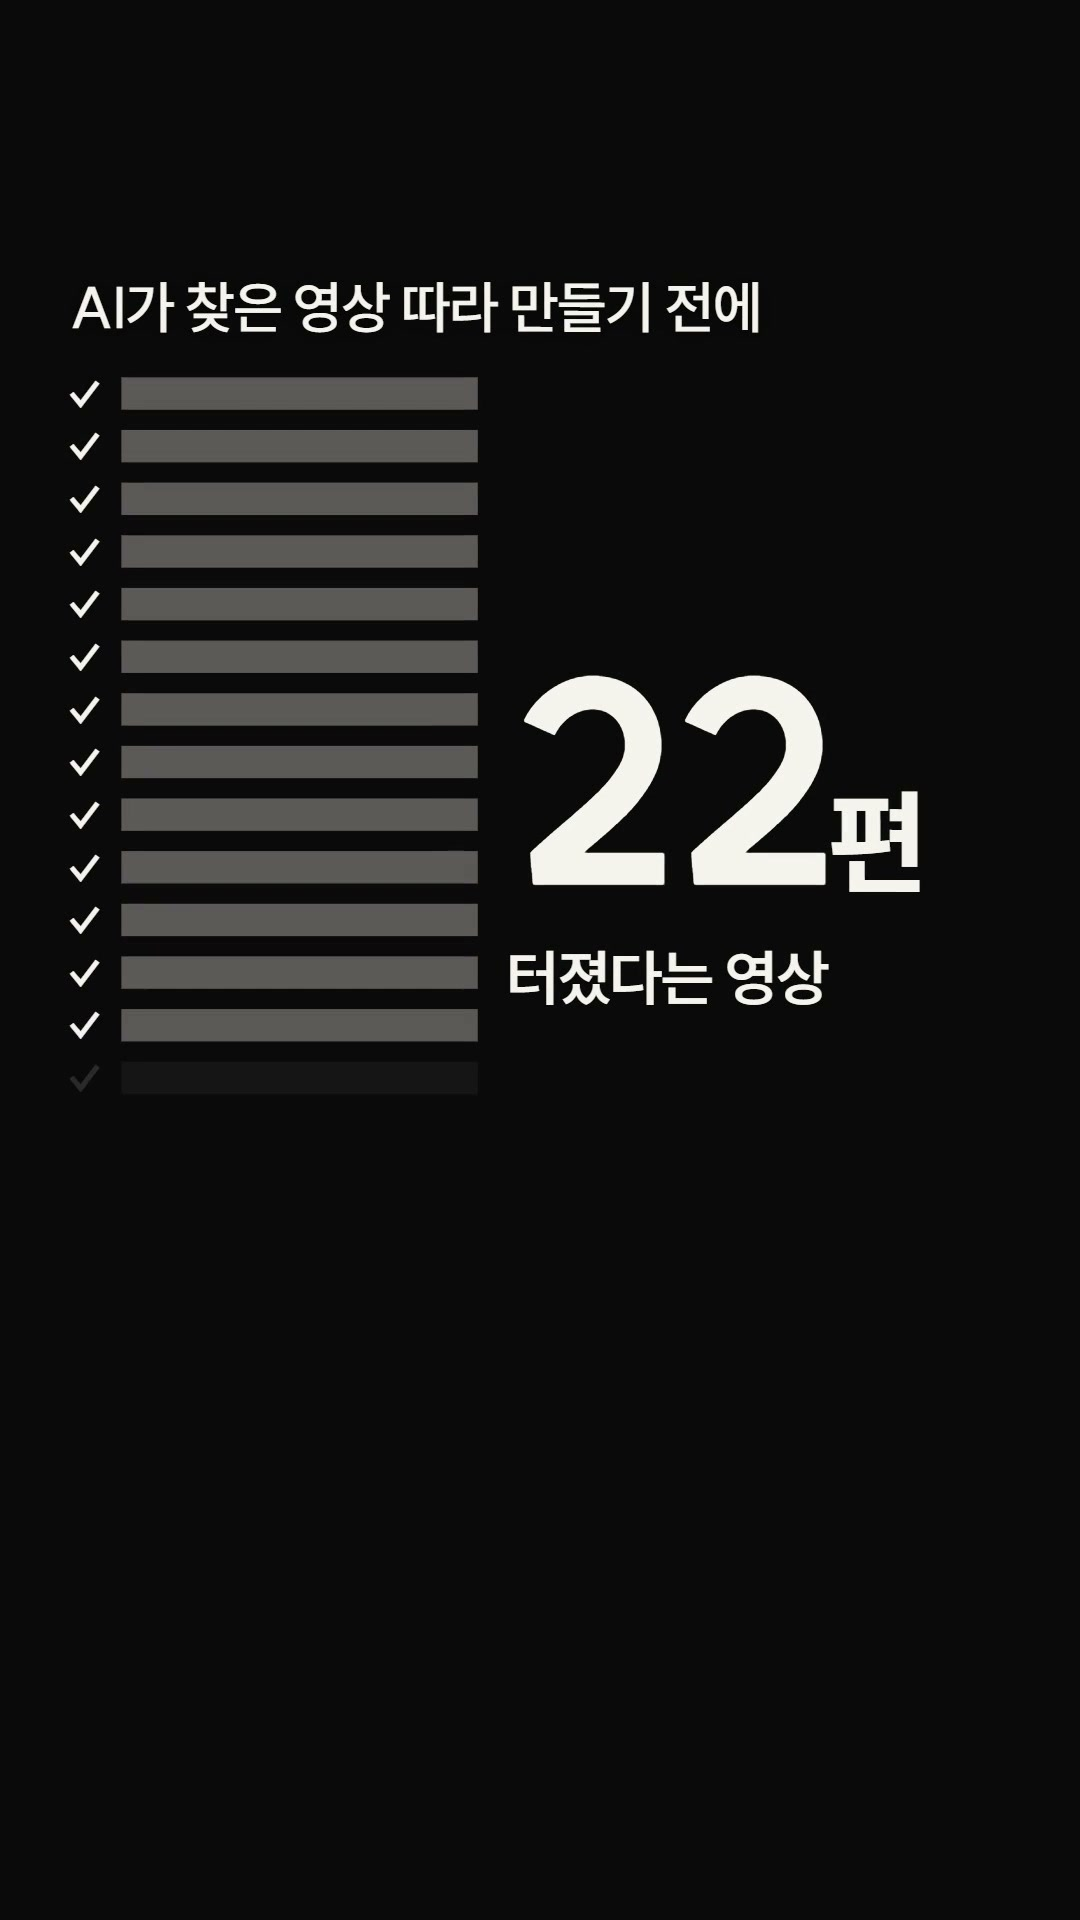
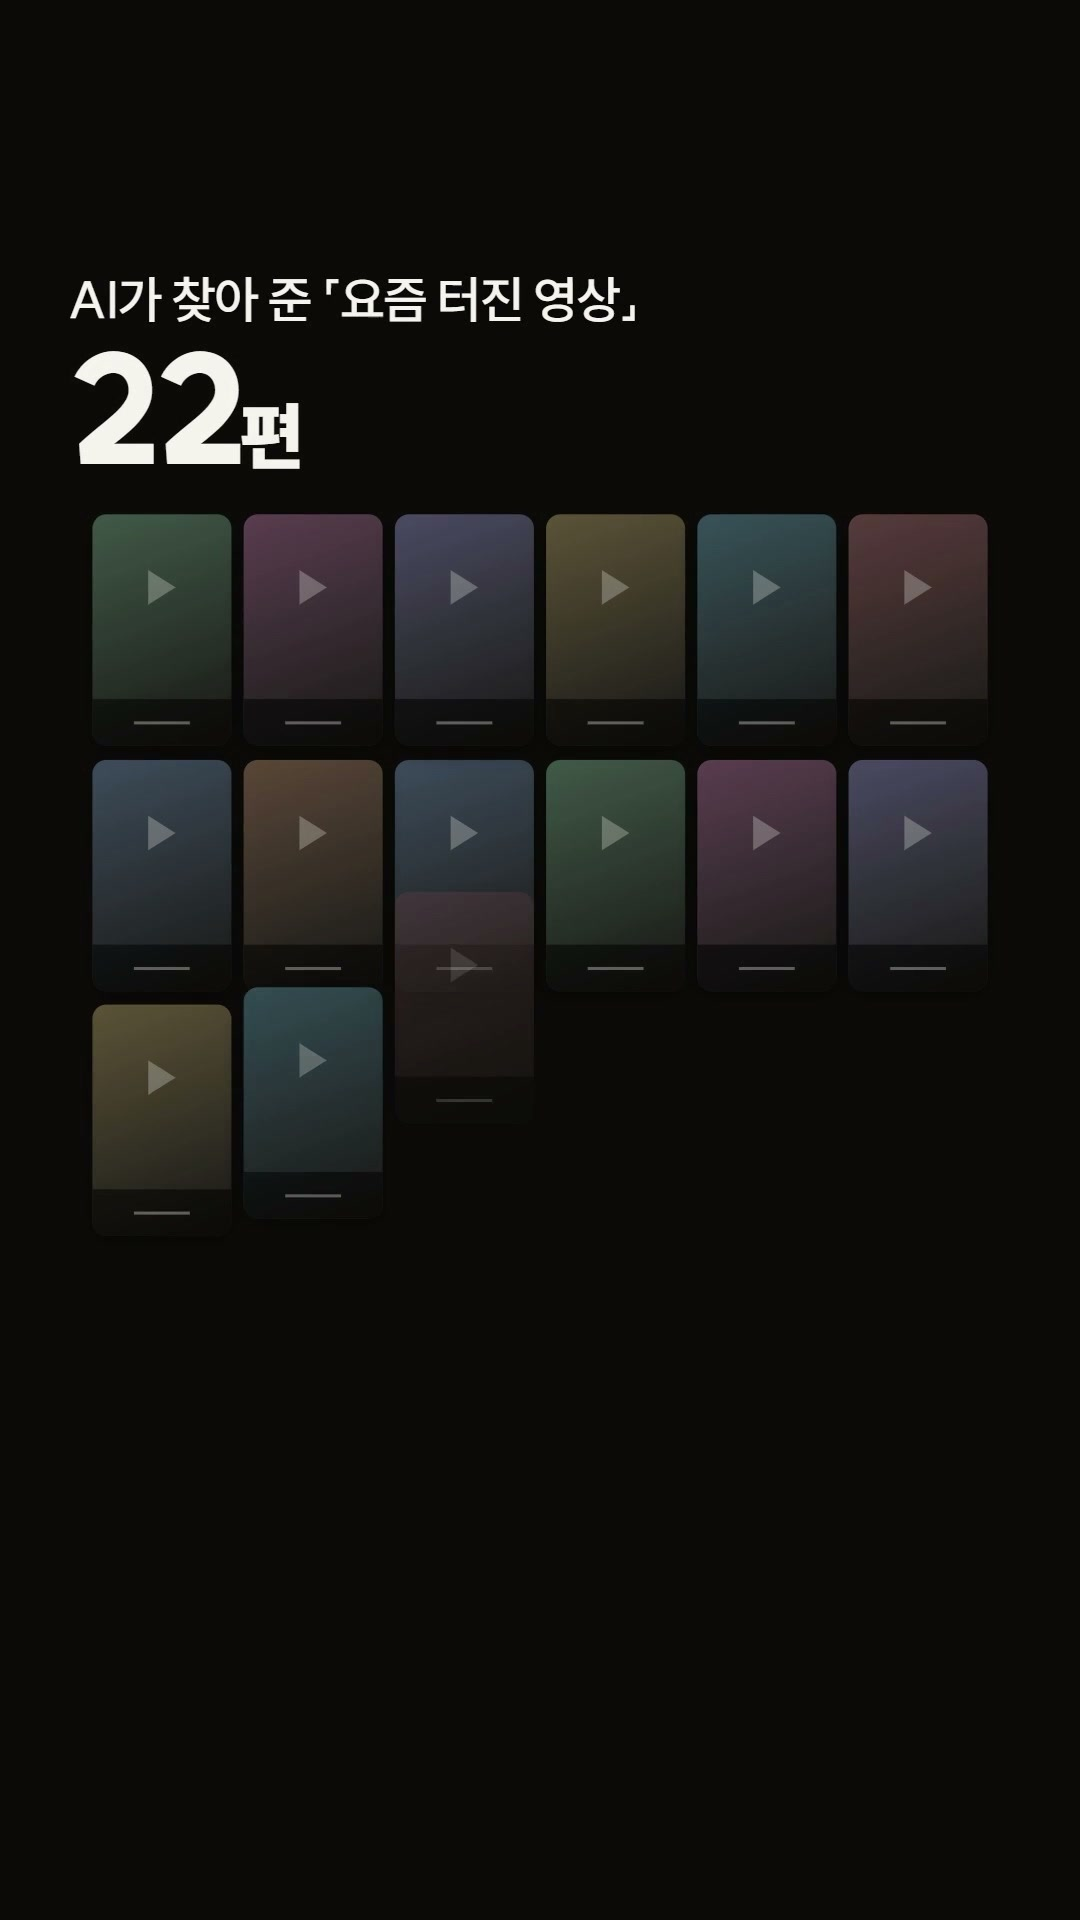
wip(yuhobuilds Y33 · 11-10 새벽 다시 짬 v17): 컷 전수 검수 「미흡」대로 작은 표 · 문단을 버리고 「영상 카드 22장」 한 그림으로 끝까지 — 쏟아짐 → 체크 → 까닭 줄 → 「?」 → 뒤집혀 20장이 꺼지고 2장만, 실제 보고서는 제목 · 그 문장만 0.8초씩 크게. 이해 시험 다시(넷 다 한 문장 같음 · 저장 넷) 같이 짚은 셋 고침, 원본 나란히 다섯 다 맞음. 아르곤 맹검 줄 기다림 — 작업실등록 없음

Changed region(s): [[0.0611, 0.125, 0.9167, 0.625]]

diff --git a/docs/마케팅/yuhobuilds_터진영상19회_20261109/시험/v16/질문.md b/docs/마케팅/yuhobuilds_터진영상19회_20261109/시험/v16/질문.md
@@ -1,0 +1,17 @@
+너는 인스타 릴스를 넘기다가 이 영상을 처음 본 사람이다. AI 도구를 일에 자주 쓰지만 개발자는 아닌 30대 한국인 직장인·1인 사업가이고, 이 계정도 만든 사람도 이 영상의 배경도 모른다. 아래 파일만 Read 도구로 열어 보고 답해라. 다른 파일·폴더·인터넷은 보지 마라.
+
+- 장면 묶음(그림 7장, 이 순서로 다 연다): C:\Users\q1212\Documents\SYNK-appsscript\.claude\worktrees\sched-synk-daily-yuhobuilds-1110-0258\docs\마케팅\yuhobuilds_터진영상19회_20261109\시험\v16\정지컷_01.jpg · C:\Users\q1212\Documents\SYNK-appsscript\.claude\worktrees\sched-synk-daily-yuhobuilds-1110-0258\docs\마케팅\yuhobuilds_터진영상19회_20261109\시험\v16\정지컷_02.jpg · C:\Users\q1212\Documents\SYNK-appsscript\.claude\worktrees\sched-synk-daily-yuhobuilds-1110-0258\docs\마케팅\yuhobuilds_터진영상19회_20261109\시험\v16\정지컷_03.jpg · C:\Users\q1212\Documents\SYNK-appsscript\.claude\worktrees\sched-synk-daily-yuhobuilds-1110-0258\docs\마케팅\yuhobuilds_터진영상19회_20261109\시험\v16\정지컷_04.jpg · C:\Users\q1212\Documents\SYNK-appsscript\.claude\worktrees\sched-synk-daily-yuhobuilds-1110-0258\docs\마케팅\yuhobuilds_터진영상19회_20261109\시험\v16\정지컷_05.jpg · C:\Users\q1212\Documents\SYNK-appsscript\.claude\worktrees\sched-synk-daily-yuhobuilds-1110-0258\docs\마케팅\yuhobuilds_터진영상19회_20261109\시험\v16\정지컷_06.jpg · C:\Users\q1212\Documents\SYNK-appsscript\.claude\worktrees\sched-synk-daily-yuhobuilds-1110-0258\docs\마케팅\yuhobuilds_터진영상19회_20261109\시험\v16\정지컷_07.jpg — 휴대폰에서 보는 크기 그대로다. 컷이 바뀔 때마다 한 장(그 컷의 가운데 장면), 각 칸 왼쪽 위 숫자는 그 컷이 화면에 나오는 초(시작-끝)다 — 짧은 컷은 그만큼 잠깐 지나간다. 한 장 안은 왼쪽에서 오른쪽, 위에서 아래 순서.
+- 들리는 말: C:\Users\q1212\Documents\SYNK-appsscript\.claude\worktrees\sched-synk-daily-yuhobuilds-1110-0258\docs\마케팅\yuhobuilds_터진영상19회_20261109\시험\v16\말.txt — 줄 앞 숫자는 그 말이 시작하는 초. 배경음악은 따로 깔려 있다.
+
+- 비교용(9번에만): 같은 계정이 이 영상 전에 올린 2편의 장면 묶음 — C:\Users\q1212\Documents\SYNK-appsscript\.claude\worktrees\sched-synk-daily-yuhobuilds-1110-0258\docs\마케팅\yuhobuilds_터진영상19회_20261109\시험\v16\지난1_yuhobuilds_털모자_20261109.jpg · C:\Users\q1212\Documents\SYNK-appsscript\.claude\worktrees\sched-synk-daily-yuhobuilds-1110-0258\docs\마케팅\yuhobuilds_터진영상19회_20261109\시험\v16\지난2_yuhobuilds_배경음18초_20261108.jpg. 1~8번은 이 영상만 보고 답한 뒤, 9번을 답할 때만 연다.
+
+한국어로, 아래 양식 그대로 답해라(전체 700자 안팎). 겉치레 칭찬은 하지 말고, 모르는 것은 모른다고 써라. 휴대폰에서 작아 못 읽은 글자는 못 읽었다고 써라.
+1. 이 영상이 말하려는 것 — 친구에게 전하듯 한 문장.
+2. 보고 나서 내가 바로 할 수 있게 된 것 — 없으면 「없음」.
+3. 무슨 말인지 모르겠던 낱말·장면 — 초와 함께 전부. 없으면 「없음」.
+4. 넘겼을 것 같은 초와 까닭 — 끝까지 봤을 것 같으면 「끝까지」와 까닭.
+5. 이해 점수 1~5(5 = 한 번 보고 다 알겠다)와 한 줄 까닭.
+6. 재미 점수 1~5(5 = 친구에게 보여 주고 싶을 만큼 재밌다, 1 = 지루하다)와 한 줄 까닭 — 이해와 따로 매긴다.
+7. 처음 3초(0~3초 장면)만 보고 넘기겠나 — 「넘김」 또는 「계속 봄」과 까닭.
+8. 저장하거나 누구에게 보내겠나 — 「저장」 · 「공유」 · 「둘 다」 · 「안 함」 가운데 하나와 까닭.
+9. 비교용 묶음과 견주어 같은 틀을 또 찍어 낸 것처럼 보이나 — 「같아 보임」 또는 「달라 보임」과, 같아 보이면 어디가 같은지(무대 구성 · 말 순서 · 머리 글 · 끝 카드 가운데). 이 계정에 늘 나오는 것(「yuhobuilds」 이름표 · 로고와 늘 나오는 만든 이)은 같아도 같은 틀로 치지 않는다 — 화면에 무엇이 어떻게 놓이고 어떤 순서로 말하고 무엇으로 끝나는지로만 판단한다.

diff --git a/docs/마케팅/yuhobuilds_터진영상19회_20261109/시험/v16/볼이유_질문.md b/docs/마케팅/yuhobuilds_터진영상19회_20261109/시험/v16/볼이유_질문.md
@@ -1,0 +1,11 @@
+너는 인스타 릴스에서 하루에 영상을 수백 개 넘기는 까다로운 시청자다. AI 도구를 일에 자주 쓰지만 개발자는 아닌 30대 한국인 직장인·1인 사업가이고, 이 계정도 만든 사람도 이 영상의 배경도 모른다. 아래 파일만 Read 도구로 열어 보고 답해라. 다른 파일·폴더·인터넷은 보지 마라.
+
+- 장면 묶음(그림 7장, 이 순서로 다 연다): C:\Users\q1212\Documents\SYNK-appsscript\.claude\worktrees\sched-synk-daily-yuhobuilds-1110-0258\docs\마케팅\yuhobuilds_터진영상19회_20261109\시험\v16\정지컷_01.jpg · C:\Users\q1212\Documents\SYNK-appsscript\.claude\worktrees\sched-synk-daily-yuhobuilds-1110-0258\docs\마케팅\yuhobuilds_터진영상19회_20261109\시험\v16\정지컷_02.jpg · C:\Users\q1212\Documents\SYNK-appsscript\.claude\worktrees\sched-synk-daily-yuhobuilds-1110-0258\docs\마케팅\yuhobuilds_터진영상19회_20261109\시험\v16\정지컷_03.jpg · C:\Users\q1212\Documents\SYNK-appsscript\.claude\worktrees\sched-synk-daily-yuhobuilds-1110-0258\docs\마케팅\yuhobuilds_터진영상19회_20261109\시험\v16\정지컷_04.jpg · C:\Users\q1212\Documents\SYNK-appsscript\.claude\worktrees\sched-synk-daily-yuhobuilds-1110-0258\docs\마케팅\yuhobuilds_터진영상19회_20261109\시험\v16\정지컷_05.jpg · C:\Users\q1212\Documents\SYNK-appsscript\.claude\worktrees\sched-synk-daily-yuhobuilds-1110-0258\docs\마케팅\yuhobuilds_터진영상19회_20261109\시험\v16\정지컷_06.jpg · C:\Users\q1212\Documents\SYNK-appsscript\.claude\worktrees\sched-synk-daily-yuhobuilds-1110-0258\docs\마케팅\yuhobuilds_터진영상19회_20261109\시험\v16\정지컷_07.jpg — 휴대폰에서 보는 크기 그대로다. 컷이 바뀔 때마다 한 장(그 컷의 가운데 장면), 각 칸 왼쪽 위 숫자는 그 컷이 화면에 나오는 초(시작-끝)다 — 짧은 컷은 그만큼 잠깐 지나간다. 한 장 안은 왼쪽에서 오른쪽, 위에서 아래 순서.
+- 들리는 말: C:\Users\q1212\Documents\SYNK-appsscript\.claude\worktrees\sched-synk-daily-yuhobuilds-1110-0258\docs\마케팅\yuhobuilds_터진영상19회_20261109\시험\v16\말.txt — 줄 앞 숫자는 그 말이 시작하는 초. 배경음악은 따로 깔려 있다.
+
+알아듣는지가 아니라 「볼 이유가 있는지」를 묻는다. 한국어로, 아래 양식 그대로 답해라(전체 600자 안팎). 겉치레 칭찬은 하지 말고, 하루에 보는 흔한 AI 영상들과 견주어 냉정하게 답해라.
+1. 이 영상이 무엇으로 이기려 하나 — 「이야기」(기승전결이 있고 끝에 여운이 남는다) · 「임팩트」(눈에 박히는 한 장면 · 비싼 효과나 장치) · 「둘 다 아님」 가운데 하나와, 그렇게 본 초 · 장면.
+2. 볼 이유 점수 1~5(5 = 끝나고도 여운이 남거나 한 장면이 눈에 박혀 다시 보고 싶다, 3 = 볼 만은 하지만 금방 잊는다, 1 = 볼 이유가 없다)와 한 줄 까닭.
+3. AI 슬롭처럼 보이나 — 「슬롭 같음」 또는 「아님」과, 그렇게 보인 초 · 장면(매끈하기만 하고 비어 보이는 화면, 뜻 없는 화려함, 이야기 없이 늘어놓은 장면, 어디서 본 듯한 짜임 같은 것). 이 계정에 늘 나오는 것(「yuhobuilds」 이름표 · 로고와 늘 나오는 만든 이)과 그 그림체 · 질감은 그것만으로 슬롭으로 치지 않는다 — 그것으로 무엇을 어떻게 보여 주는지로 판단한다.
+4. 가장 약한 자리 한 곳(초)과, 무엇을 바꾸면 볼 이유가 생길지 한 줄.
+5. (광고가 아님 — 「해당 없음」이라고만 쓴다)

diff --git a/docs/마케팅/yuhobuilds_터진영상19회_20261109/기획.md b/docs/마케팅/yuhobuilds_터진영상19회_20261109/기획.md
@@ -132,3 +132,13 @@
 | 원본 박자 짝 58% · 끝 자리 어긋남 | 나란히 | 보고서 5.1초 · 뒤집힘 18.5초 · 22칸 12.75초 · 까닭 흐름 15.5초 · 끝 줄 당겨 찍기 34.2초를 원본 박자에 맞추고 짝 없는 박 둘을 뺌 → 73% |
 
 받아쓰기(v3)와 말은 A11 한 줄만 바뀌었다 — 새 A11은 나레이션굽기 낱말 시각으로 원고와 같음을 봤다. v12는 이해 시험 · 맹검을 다시 받지 않았다(관문 시험 ② · 맹검못함).
+
+## 다시 짬(v13~v17, 11-10 새벽 — 「미흡하면 다시」)
+
+11-10 02:4x 「온라인 마케팅 전 과정 평가 · 재설계」 세션이 v6을 컷 전수 검수해 미흡으로 되돌렸다(장부 · 준비.json 「제작 중(다시)」, 작업실 등록 거둠). 근거는 제작 절차 「그림으로 보이기」 · 「미흡하면 다시」(유호님 11-09 「하나라도 미흡하면 계속 다시 만들어」) — ① 5~11초 작은 글자 화면 약 7초(기준 4초), 15~16초 문단 벽 ② 「검은 바탕 + 굵은 고딕 + 노란 낱말 하나」 정보 쇼츠 틀 ③ 맹검을 못 받음 ④ 재미 3. v12도 ①이 그대로였다.
+
+**바꾼 짜임:** 표 · 문단을 다 버리고 「영상 카드 22장」 하나의 그림으로 끝까지 끈다 — 0초 카드가 쏟아짐 → 3.7초 20장이 떨어지고 2장만 빛남 → 5.1초 실제 보고서 제목만 0.8초(증거) → 5.9초 카드가 다시 내려앉고 7초 체크가 한꺼번에 찍힘(주소 진짜) → 8.25초 카드마다 까닭 줄이 자람(줄줄이, 읽을 글이 아니라 그림) → 10초 조회 칸으로 당김 → 13초 칸마다 「?」 → 15.5초 19회 카드 한 장 + 그 까닭 한 문장 → 18.5초 아래에서 위로 뒤집혀 숫자 · 평소×배수가 나오고 20장이 꺼짐 → 22초 두 장 크게 → 22.6초 그 19회 카드가 뒤집혀 19 → 29.3초 보고서의 그 문장만 크게 잘라 0.8초 → 끝 종이 카드 아래 22장이 한 번 더. 바탕은 검정 대신 카드마다 다른 물빛 · 흙빛, 글은 머리 한 줄만. 말 · 목소리 · 진행자 컷은 그대로(추가 크레딧 0).
+
+**재서 고친 것:** 원본 박자 — 3.7초(숫자 바뀜)가 카드가 천천히 떨어져 박으로 안 잡혀 20장이 그 순간 한 번에 어두워지게, 7초 체크를 한꺼번에, 끝 뒤집힘을 컷 직후 0.55초 안에 → 나란히 다섯 다 맞음(박자 61%) · 장면 첫 프레임이 빈 검은 화면(5.9 · 15.5초) → 글 · 카드가 컷 직전에 들어와 있게 · 멈춘 시간 10%(가장 긴 정지 1.5초).
+
+**이해 시험(v16, 다시 — 「미흡하면 다시」가 「다시 시험하지 않는다」보다 먼저):** 답 1 넷 다 한 문장과 같음 · 이해 4 · 3 · 4 · 4 · 재미 3 · 3 · 3 · 3 · 끝까지 s · K, 넘김 h 24.6초 · G 9.9초 · 첫 3초 넷 다 계속 봄 · 저장 넷 다(s · h · G · K) · 지난 편 달라 s · K, 같아 h · G(검은 바탕 머리 글 · 진행자 — 장부 「화면 결」의 고정 요소). 둘 넘게 같이 짚은 것: 카드의 「×41.9」가 무엇의 배수인지(s · h · G · K) → 「평소×0.92」 · 큰 카드 「평소의 41.9배」 / 0.8초 보고서 화면이 안 읽힘(s · h · G · K) → 제목만 크게 잘라 읽히게, 29초 컷은 그 문장 두 줄만 3.4배로 / 19회 앞 「재는 중」이 늘어짐(s · h · G) → 그 카드가 옆에서 「?」로 기다리다 뒤집혀 19가 나오게(v17). 혼자 짚은 「확인 못 함」 뜻(h) → 「확인 못 함이라고 썼다」. 재미 3은 그대로다.

diff --git a/docs/마케팅/yuhobuilds_터진영상19회_20261109/시험/v16/답_GPT.md b/docs/마케팅/yuhobuilds_터진영상19회_20261109/시험/v16/답_GPT.md
@@ -1,0 +1,19 @@
+# GPT 시험관 답 · 구독(Codex) · 2026-11-09T18:12:25.880Z
+
+1. AI가 잘된 이유까지 그럴듯하게 써 줘도, 정말 잘된 영상인지는 조회수부터 확인해야 해.
+
+2. AI에게 사례를 찾아 달라고 할 때 “확인 못 한 값이 하나라도 있으면 ‘터짐’으로 세지 마”를 붙일 수 있다.
+
+3. 5.1~5.9초와 29.3~30.1초 보고서 본문은 작고 빨리 지나가 못 읽었다. 18.5~21.9초 카드들의 작은 조회수·배수도 다 못 읽었다. ‘평소의 3배’에서 평소가 어느 기간 기준인지는 모르겠다. 37~40초 아래 작은 숫자도 못 읽었다.
+
+4. 9.9초쯤. 두 편뿐이라는 결론은 이미 들었는데 비슷한 카드가 계속 나와서 이야기가 더디게 느껴졌다.
+
+5. 4점. 조회수도 모르면서 성공 이유를 썼다는 문제는 알겠다. 직접 어떻게 확인했는지는 모르겠다.
+
+6. 3점. 성공 이유까지 써 준 영상이 19회였다는 건 웃기다. 다만 그 장면까지 기다리는 구간은 늘어진다.
+
+7. 계속 봄. AI로 요즘 잘되는 영상을 찾는 일이 내 홍보에도 쓸모 있을 것 같아서.
+
+8. 저장. 다음에 AI로 참고 사례를 찾을 때 마지막 요청 문장을 써먹고 싶다.
+
+9. 같아 보임. 무대 구성과 머리 글이 특히 같다. 검은 바탕 위쪽에 흰색·노란색 큰 글씨, 아래에 사례나 검사 화면을 놓는다. 말도 이상 발견→확인→다음에 할 일 순서라 익숙한 틀 같다. 이번의 밝은 끝 카드는 다르다.

diff --git a/docs/마케팅/yuhobuilds_터진영상19회_20261109/시험/v16/답_그록.md b/docs/마케팅/yuhobuilds_터진영상19회_20261109/시험/v16/답_그록.md
@@ -1,0 +1,11 @@
+# 그록 시험관 답 · 구독(grok CLI) · 2026-11-09T18:13:48.173Z
+
+1. AI한테 요즘 터진 영상 찾아달라 했더니 스물두 편 주고 이유까지 적어 줬는데, 조회수는 확인도 안 한 채로 터졌다고 한 거라 직접 재 보니 진짜는 두 편이고 이유 적어 준 그 영상은 19회였다는 얘기야.
+2. 다음에 AI한테 시킬 때 「확인 못 한 값이 하나라도 있으면, '터짐'으로 세지 마」라는 한 줄을 붙일 수 있게 됨.
+3. 5.1~5.9초·29.3~30.1초 보고서 본문은 작아서 못 읽음. 19.8초 칸의 ×41.9·×13.25는 말은 세 배라는데 숫자가 안 맞아서 모르겠음. 끝의 synk.im/prompts는 뭐가 나오는지 모름. 19.8초 왼쪽 ?·! 칸도 모름.
+4. 끝까지. 내가 하던 질문이라 첫 화면에 멈췄고, 이상한 게 뭔지 보고 싶었다.
+5. 4. 줄거리는 한 번에 알겠는데 작은 글과 배수 숫자까지는 놓쳤다.
+6. 3. 19회 반전은 “맞네” 싶은데, 카드 칸이 비슷하게 반복돼서 친구에게 보여 줄 정도는 아니다.
+7. 계속 봄. 나도 AI한테 요즘 뭐 터졌냐고 물어보는 사람이라서.
+8. 저장. 마지막 한 줄은 다음에 그대로 붙여 쓸 수 있어서. 이 계정은 처음이라 공유까지는 안 함.
+9. 달라 보임. 지난1은 그림이 이어지다 그림으로 끝나고, 지난2는 파형·검사 화면으로 가다 파형으로 끝난다. 이번은 카드 격자와 조회로 가다 크림색 저장 카드로 끝난다.
